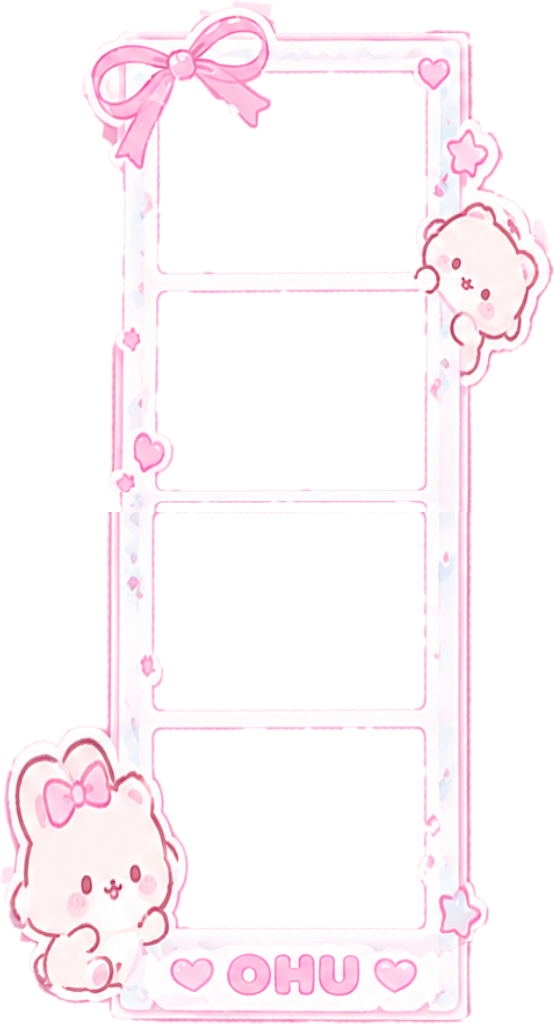
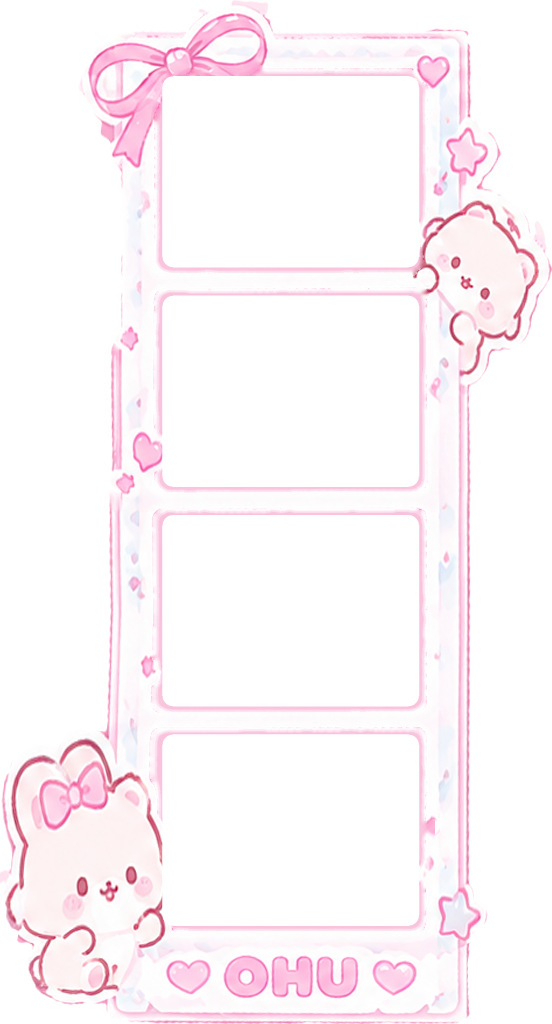
Opening event: day-7/14 reward reveal from a shaking black box, finer frame cut, frame first in 특별한 (D-1870..D-1872)

Changed region(s): [[0.0, 0.0, 1.0, 1.0]]

diff --git a/tools/art/opening_frame/warp.py b/tools/art/opening_frame/warp.py
@@ -47,7 +47,7 @@ def build(name,a,hs,rows_used,cols,rows,out):
         if R and abs(R[-1][0]['cy']-h['cy'])<40: R[-1].append(h)
         else: R.append([h])
     for r in R: r.sort(key=lambda h:h['cx'])
-    R=[R[i] for i in rows_used]
+    Rall=R; R=[R[i] for i in rows_used]
     gap,cw,ch=0.35,4,3
     totalW=cols*cw+(cols+1)*gap; totalH=rows*ch+(rows+1)*gap+1.4
     # x segments
@@ -59,7 +59,7 @@ def build(name,a,hs,rows_used,cols,rows,out):
     for i,sg in enumerate(xs):
         xsegs.append(sg)
         if i+1<len(xs): xsegs.append((sg[1],xs[i+1][0],sg[3],xs[i+1][2]))
-    ysegs=[]; ys=[]
+    ysegs=[]; ys=[]; ysegsB=[]; joins=[]
     for ri,r in enumerate(R):
         t=np.mean([h['t'] for h in r]); b=np.mean([h['b'] for h in r])
         t0=gap+ri*(ch+gap); ys.append((t0,t0+ch,t,b))
@@ -67,8 +67,14 @@ def build(name,a,hs,rows_used,cols,rows,out):
         ysegs.append(sg)
         if i+1<len(ys):
             # the divider below this row in the art (the next art row may be further down)
-            nxt=ys[i+1]; artgap=min(nxt[2]-sg[3], 30)
+            # (D-1871) the divider's real height in the art: to the art row right below this one
+            nxt=ys[i+1]; ri0=rows_used[i]; artgap=min(np.mean([h['t'] for h in Rall[ri0+1]])-sg[3], 30)
+            artgapB=min(nxt[2]-np.mean([h['b'] for h in Rall[rows_used[i+1]-1]]), 30)
             ysegs.append((sg[1],nxt[0],sg[3],sg[3]+max(artgap,5)))
+            # (D-1871) B: the same divider read from just above the next used row; where the art
+            # skips rows (1x4 = rows 1, 2, 5, 6) the divider fades from A to B, so no seam
+            ysegsB.append((sg[1],nxt[0],nxt[2]-max(artgapB,5),nxt[2]))
+            if rows_used[i+1]-rows_used[i]>1: joins.append((sg[1],nxt[0]))
             # (the art after the divider continues at the next used row)
     # fix: segment after a divider must start at next row top: handled since row seg uses its own a0
     s=np.mean([(sg[1]-sg[0])/(sg[3]-sg[2]) for sg in xs])
@@ -85,8 +91,58 @@ def build(name,a,hs,rows_used,cols,rows,out):
     k=min(1024/(u1-u0),1024/(v1-v0))
     Wo,Ho=int((u1-u0)*k),int((v1-v0)*k)
     U=u0+(np.arange(Wo)+0.5)/k; V=v0+(np.arange(Ho)+0.5)/k
-    mx=np.tile(fx(U).astype(np.float32),(Ho,1)); my=np.tile(fy(V).astype(np.float32)[:,None],(1,Wo))
-    o=cv2.remap(a,mx,my,cv2.INTER_LINEAR,borderMode=cv2.BORDER_CONSTANT,borderValue=(0,0,0,0))
+    # (D-1871) x warp per output row: each art row's own hole edges (the drawn strip leans and
+    # widens a little), blended between row centres, so the borders do not jump at the joins
+    rowc=[gap+ri*(ch+gap)+ch/2 for ri in range(len(R))]
+    def xsegs_for(rws):
+        out=[]
+        for c in range(cols):
+            l=np.mean([r[c]['l'] for r in rws]); rr=np.mean([r[c]['r'] for r in rws])
+            t0=gap+c*(cw+gap); out.append((t0,t0+cw,l,rr))
+        segs=[]
+        for i,sg in enumerate(out):
+            segs.append(sg)
+            if i+1<len(out): segs.append((sg[1],out[i+1][0],sg[3],out[i+1][2]))
+        return segs
+    rowx=[piecewise(xsegs_for([R[ri]]),s)(U) for ri in range(len(R))]
+    mx=np.empty((Ho,Wo),np.float32)
+    for j,v in enumerate(V):
+        if v<=rowc[0]: mx[j]=rowx[0]
+        elif v>=rowc[-1]: mx[j]=rowx[-1]
+        else:
+            i=max(q for q in range(len(rowc)) if rowc[q]<=v); t=(v-rowc[i])/(rowc[i+1]-rowc[i])
+            mx[j]=rowx[i]*(1-t)+rowx[i+1]*t
+    my=np.tile(fy(V).astype(np.float32)[:,None],(1,Wo))
+    o=cv2.remap(a,mx,my,cv2.INTER_CUBIC,borderMode=cv2.BORDER_CONSTANT,borderValue=(0,0,0,0)).astype(np.float32)
+    for (j0,j1) in joins:
+        segsB=[sg if not (abs(sg[0]-j0)<1e-9 and abs(sg[1]-j1)<1e-9) else [b for b in ysegsB if abs(b[0]-j0)<1e-9][0] for sg in ysegs]
+        myB=np.tile(piecewise(segsB,s)(V).astype(np.float32)[:,None],(1,Wo))
+        oB=cv2.remap(a,mx,myB,cv2.INTER_CUBIC,borderMode=cv2.BORDER_CONSTANT,borderValue=(0,0,0,0)).astype(np.float32)
+        w=np.clip((V-j0)/(j1-j0),0,1)[:,None,None]; inside=((V>=j0)&(V<j1))[:,None,None]
+        o=np.where(inside,o*(1-w)+oB*w,o)
+    o=np.clip(o,0,255)
+    # (D-1871) exact photo holes: the game's cells as rounded rectangles (inset a hair so the
+    # photo's edge stays under the frame), the frame right around them made solid
+    px=lambda u,v:((u-u0)*k,(v-v0)*k)
+    hole=np.zeros((Ho*4,Wo*4),np.uint8); ring=np.zeros((Ho,Wo),np.uint8)
+    inset,rad=0.04,0.16; pad=gap/2+0.02
+    for c in range(cols):
+        for r in range(rows):
+            x0=gap+c*(cw+gap); y0=gap+r*(ch+gap)
+            X0,Y0=px(x0+inset,y0+inset); X1,Y1=px(x0+cw-inset,y0+ch-inset); R=rad*k
+            for (sx0,sy0,sx1,sy1) in [(X0+R,Y0,X1-R,Y1),(X0,Y0+R,X1,Y1-R)]:
+                cv2.rectangle(hole,(int(sx0*4),int(sy0*4)),(int(sx1*4),int(sy1*4)),255,-1)
+            for (cx,cy) in [(X0+R,Y0+R),(X1-R,Y0+R),(X0+R,Y1-R),(X1-R,Y1-R)]:
+                cv2.circle(hole,(int(cx*4),int(cy*4)),int(R*4),255,-1)
+            RX0,RY0=px(x0-pad,y0-pad); RX1,RY1=px(x0+cw+pad,y0+ch+pad)
+            cv2.rectangle(ring,(int(RX0),int(RY0)),(int(RX1),int(RY1)),1,-1)
+    holeA=cv2.resize(hole.astype(np.float32)/255,(Wo,Ho),interpolation=cv2.INTER_AREA)
+    al=o[:,:,3]/255.
+    # gaps in the frame right around the holes: fill with the frame's colour (inpaint) and alpha 1
+    weak=((ring>0)&(al<0.98)&(holeA<0.01)).astype(np.uint8)*255
+    rgb=cv2.inpaint(np.clip(o[:,:,:3],0,255).astype(np.uint8),weak,4,cv2.INPAINT_TELEA).astype(np.float32)
+    al=np.where(ring>0,1.0,al)*(1-holeA)
+    o=np.dstack([rgb,al*255]).astype(np.uint8)
     cv2.imwrite(out,o)
     info=dict(x=u0/totalW,y=v0/totalH,w=(u1-u0)/totalW,h=(v1-v0)/totalH,px=[Wo,Ho])
     print(out,info); return info

diff --git a/tools/art/opening_frame/cut.py b/tools/art/opening_frame/cut.py
@@ -35,9 +35,29 @@ def cut(name,poly):
     alpha=cv2.morphologyEx(alpha,cv2.MORPH_OPEN,np.ones((5,5),np.uint8))
     n3,l3,s3,_=cv2.connectedComponentsWithStats(alpha,connectivity=8)
     alpha=(l3==1+np.argmax(s3[1:,4])).astype(np.uint8)
-    a=(alpha*255).astype(np.uint8)
-    a=cv2.GaussianBlur(a,(3,3),0)
-    out=np.dstack([im,a])
+    # (D-1871, user 2026-11-19: "프레임 누끼 더 정교하게") a finer cut:
+    # 1. fill specks inside the frame (not the photo holes, not the outside)
+    inv=(alpha==0).astype(np.uint8)
+    n4,l4,s4,_=cv2.connectedComponentsWithStats(inv,connectivity=4)
+    border=np.unique(np.concatenate([l4[0],l4[-1],l4[:,0],l4[:,-1]]))
+    hole_ids=np.unique(l4[holemask&(inv>0)])
+    for i in range(1,n4):
+        if i not in border and i not in hole_ids and s4[i,4]<3000: alpha[l4==i]=1
+    # 2. eat the light-pink fringe the background leaves on the edge (1 px), then a smooth
+    #    contour: blur at 4x, threshold, area-downsample = anti-aliased edges without stair steps
+    alpha=cv2.erode(alpha,np.ones((3,3),np.uint8))
+    big4=cv2.resize(alpha.astype(np.float32),(W*4,H*4),interpolation=cv2.INTER_LINEAR)
+    big4=cv2.GaussianBlur(big4,(0,0),4.5)
+    big4=(big4>0.5).astype(np.float32)
+    soft=cv2.resize(big4,(W,H),interpolation=cv2.INTER_AREA)
+    # 3. colour clean-up on the edge: pixels near the background pink in the outer 4 px get the
+    #    colour of the frame just inside (inpaint), so no pink halo on dark backgrounds
+    inner=cv2.erode((soft>0.99).astype(np.uint8),np.ones((9,9),np.uint8))
+    band=(soft>0)&(inner==0)
+    bad=(band&pinkish).astype(np.uint8)*255
+    clean=cv2.inpaint(im,bad,5,cv2.INPAINT_TELEA)
+    a=np.clip(soft*255+0.5,0,255).astype(np.uint8)
+    out=np.dstack([clean,a])
     cv2.imwrite(name+'_cut.png',out)
     np.save(name+'_holes.npy',holemask)
     return out,holemask

diff --git a/docs/06_LOG/DECISIONS.md b/docs/06_LOG/DECISIONS.md
@@ -6344,3 +6344,17 @@ Studio only (no script yet).
 - 0:48: 원본은 48.6에 가장 깊고 48.8에 이미 서서 양팔을 듦. D-1855 `plantBend`는 숙인 채 49.2까지 잡고 49.4에 일어남 → `plantBend`에 `poseTo`(상체 숙임만 먼저 놓음)를 더해 숙임 48.31-48.56, 48.86에 끝. 다리 고정(freeze)은 49.56까지 그대로(캡처의 한 바퀴 회전을 막는 자리).
 - 1:45: D-1850 `floorTouch(P15, 3.85)`(104.4-105.7 숙여 손 바닥)를 뺌. 원본은 이때 서서 105.2-105.6에 양팔을 머리 위로 올리고, 바닥 짚기는 106.0-106.4 한 번뿐(캡처에 있음).
 - Play 녹화(pose_record, 44-110초): 0:48 숙임 40°가 48.2-48.6, 48.9에 10°까지 일어남(원본 48.8). 1:44.6-1:45.4 허리 7-12°, 105.2-105.4 손 높이 1.3-1.4(원본 1.5), 106.2-106.4 바닥 짚기 그대로. play_record 46.5-51.5 · 103-108: SNAP · SPIN · TELEPORT · JITTER 없음.
+
+
+## D-1870 Opening event: the day-7 / day-14 reward comes out of a shaking black box (2026-11-19)
+- User (with a shot of the attendance window): "7일차 14일차 선물 받으면 화면 중앙에 검은 상자에서 흔들리면서 프레임 짜잔하거 등장시키면서 보여주고 오후네컷에 가서 확인해 보세요 안내".
+- New client module `RewardReveal.lua` (`RewardReveal.show("frame" | "title")`), called by OpeningEventController after a successful 받기 whose reward is the frame or the title (coin days keep the coin sound only). Screen middle: the black ? box (as on the day-7 card) pops in, shakes harder for 1.6 s, swells and fades with a white flash and sparkles, then the card "짜잔! 🎉" pops up: the frame drawn by PhotoRender (2x2, pink cells) + "오픈 기념 한정 프레임 획득!" + "오후네컷에 가서 확인해 보세요 📸", or the FOUNDING MEMBER plate + "한정 칭호 FOUNDING MEMBER 획득!" + "모두에게 보이는 내 이름 위에 칭호가 생겼어요 👑". 확인 (or a tap outside after 0.8 s) closes it; the attendance window stays behind. Scaled to the screen height (phones).
+- New Korean texts for the translation pass: 짜잔! 🎉 / 오픈 기념 한정 프레임 획득! / 오후네컷에 가서 확인해 보세요 📸 / 한정 칭호 FOUNDING MEMBER 획득! / 모두에게 보이는 내 이름 위에 칭호가 생겼어요 👑 / 확인.
+
+## D-1871 Opening frame cut out again, finer (2026-11-19)
+- User: "프레임 누끼 더 정교하게 딸 것."
+- tools/art/opening_frame cut.py / warp.py: specks inside the frame filled, the background's pink fringe eaten (1 px) and the edge colours inpainted from the frame (no pink halo on dark photos), smooth anti-aliased outline (4x blur + threshold, area downsample), photo holes cut as exact rounded rectangles at the game's cells (the frame right around them solid), the 1x4's x warp per row and a crossfade over the divider where rows 3-4 of the drawing are skipped (the seam is gone). Re-uploaded: 1x4 rbxassetid://85072257228927, 2x2 rbxassetid://130617292038177 (PhotoConfig `opening2026` art rectangles updated).
+
+## D-1872 Opening frame first in 오후네컷 특별한 (2026-11-19)
+- User: "프레임은 오후네컷 스페셜 가장 앞에 진열".
+- PhotoConfig.Frames: `opening2026` moved to the front of the 특별한 entries (the frame picker orders cards by list index).

diff --git a/tools/art/opening_frame/README.md b/tools/art/opening_frame/README.md
@@ -15,3 +15,5 @@ opening event frame `opening2026` (PhotoConfig.Frames, style "art").
 3. Upload both (Studio logged in as Vantablack_Dev) and put the ids + rectangles in PhotoConfig.
 
 Uploaded 2026-11-14: 1x4 rbxassetid://98572338696618, 2x2 rbxassetid://126371730378535.
+
+Re-cut 2026-11-19 (D-1871): smoother edges (4x blur-threshold, area downsample), the background's pink fringe eaten and inpainted, exact rounded photo holes at the game's cells, per-row x warp + divider crossfade (no seam in the 1x4). Uploaded: 1x4 rbxassetid://85072257228927, 2x2 rbxassetid://130617292038177.
